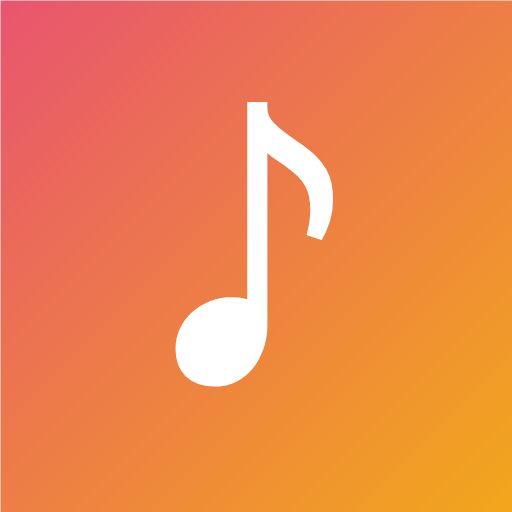
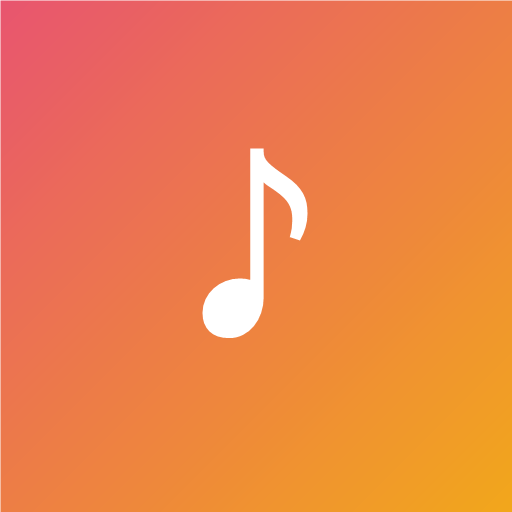
スマホで音符がつぶれる問題を修正(飾り音符とアイコン)
- タイトル右上の飾り音符(♪♫♬)が狭い画面でタイトル文字と重なるため、幅430px以下では非表示に。広い画面でも少し控えめに調整
- ホーム画面アイコンの音符を、Androidの円形切り抜き(マスク)の安全圏に収まる大きさに縮小して再生成

Changed region(s): [[0.3438, 0.1875, 0.6562, 0.7812]]

diff --git a/index.html b/index.html
@@ -11,7 +11,7 @@
 <link rel="apple-touch-icon" href="icons/apple-touch-icon.png" />
 <meta name="apple-mobile-web-app-capable" content="yes" />
 <meta name="apple-mobile-web-app-title" content="あぽろん日程" />
-<link rel="stylesheet" href="styles.css?v=20260822o" />
+<link rel="stylesheet" href="styles.css?v=20260822p" />
 </head>
 <body>
 <div class="page">
@@ -47,15 +47,15 @@
     <p class="updated" id="updated-info"></p>
     <p class="sheet-link" id="sheet-link"></p>
     <p class="bookmark-tip">&#127925; 「ホーム画面に追加」しておくと、次からアプリみたいに1タップで開けるよ<br />(iPhone: 共有ボタン → ホーム画面に追加 / Android: メニュー → ホーム画面に追加)</p>
-    <p class="app-version">v20260822o</p>
+    <p class="app-version">v20260822p</p>
   </footer>
 </div>
 
-<script src="src/constants.js?v=20260822o"></script>
-<script src="src/csv.js?v=20260822o"></script>
-<script src="src/schedule.js?v=20260822o"></script>
-<script src="src/instruments.js?v=20260822o"></script>
-<script src="src/storage.js?v=20260822o"></script>
-<script src="src/app.js?v=20260822o"></script>
+<script src="src/constants.js?v=20260822p"></script>
+<script src="src/csv.js?v=20260822p"></script>
+<script src="src/schedule.js?v=20260822p"></script>
+<script src="src/instruments.js?v=20260822p"></script>
+<script src="src/storage.js?v=20260822p"></script>
+<script src="src/app.js?v=20260822p"></script>
 </body>
 </html>

diff --git a/styles.css b/styles.css
@@ -90,11 +90,18 @@ body {
 
 .hero-notes {
   position: absolute;
-  top: 10px;
-  right: 18px;
-  font-size: 22px;
-  letter-spacing: 6px;
-  opacity: 0.55;
+  top: 8px;
+  right: 16px;
+  font-size: 18px;
+  letter-spacing: 8px;
+  opacity: 0.45;
+}
+
+/* 狭い画面ではタイトル文字と重なってつぶれるため飾りを消す */
+@media (max-width: 430px) {
+  .hero-notes {
+    display: none;
+  }
 }
 
 .hero h1 {
